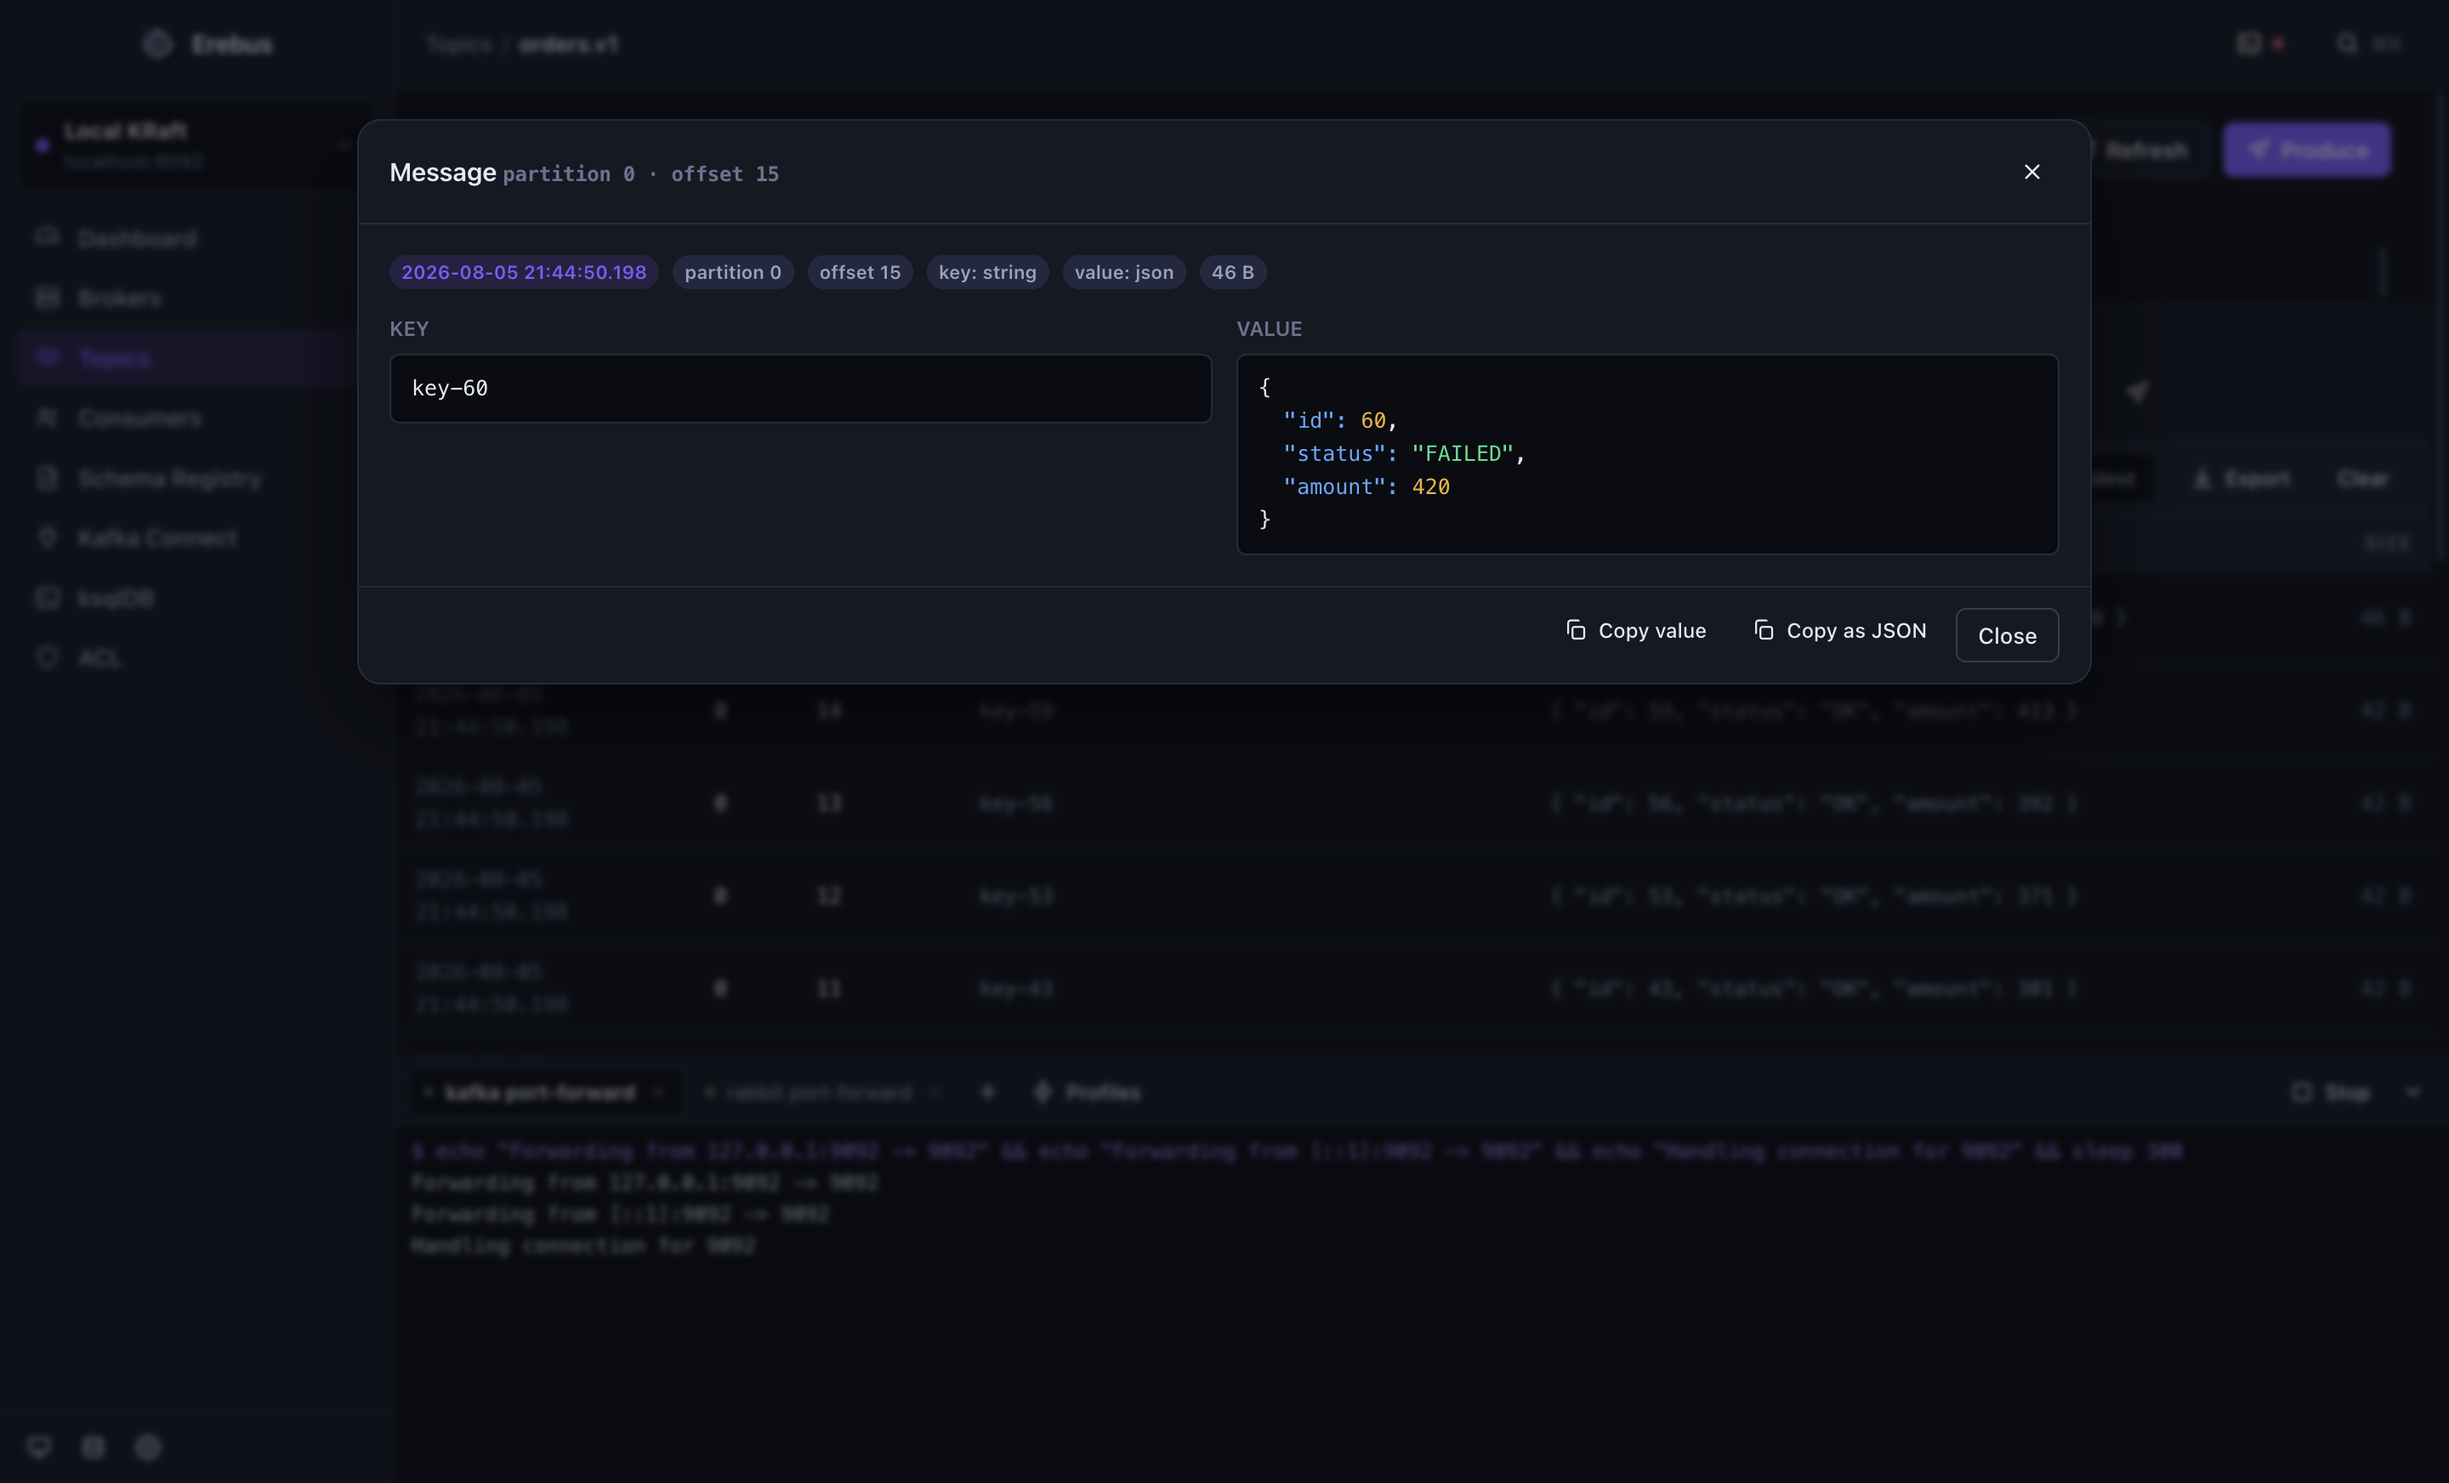
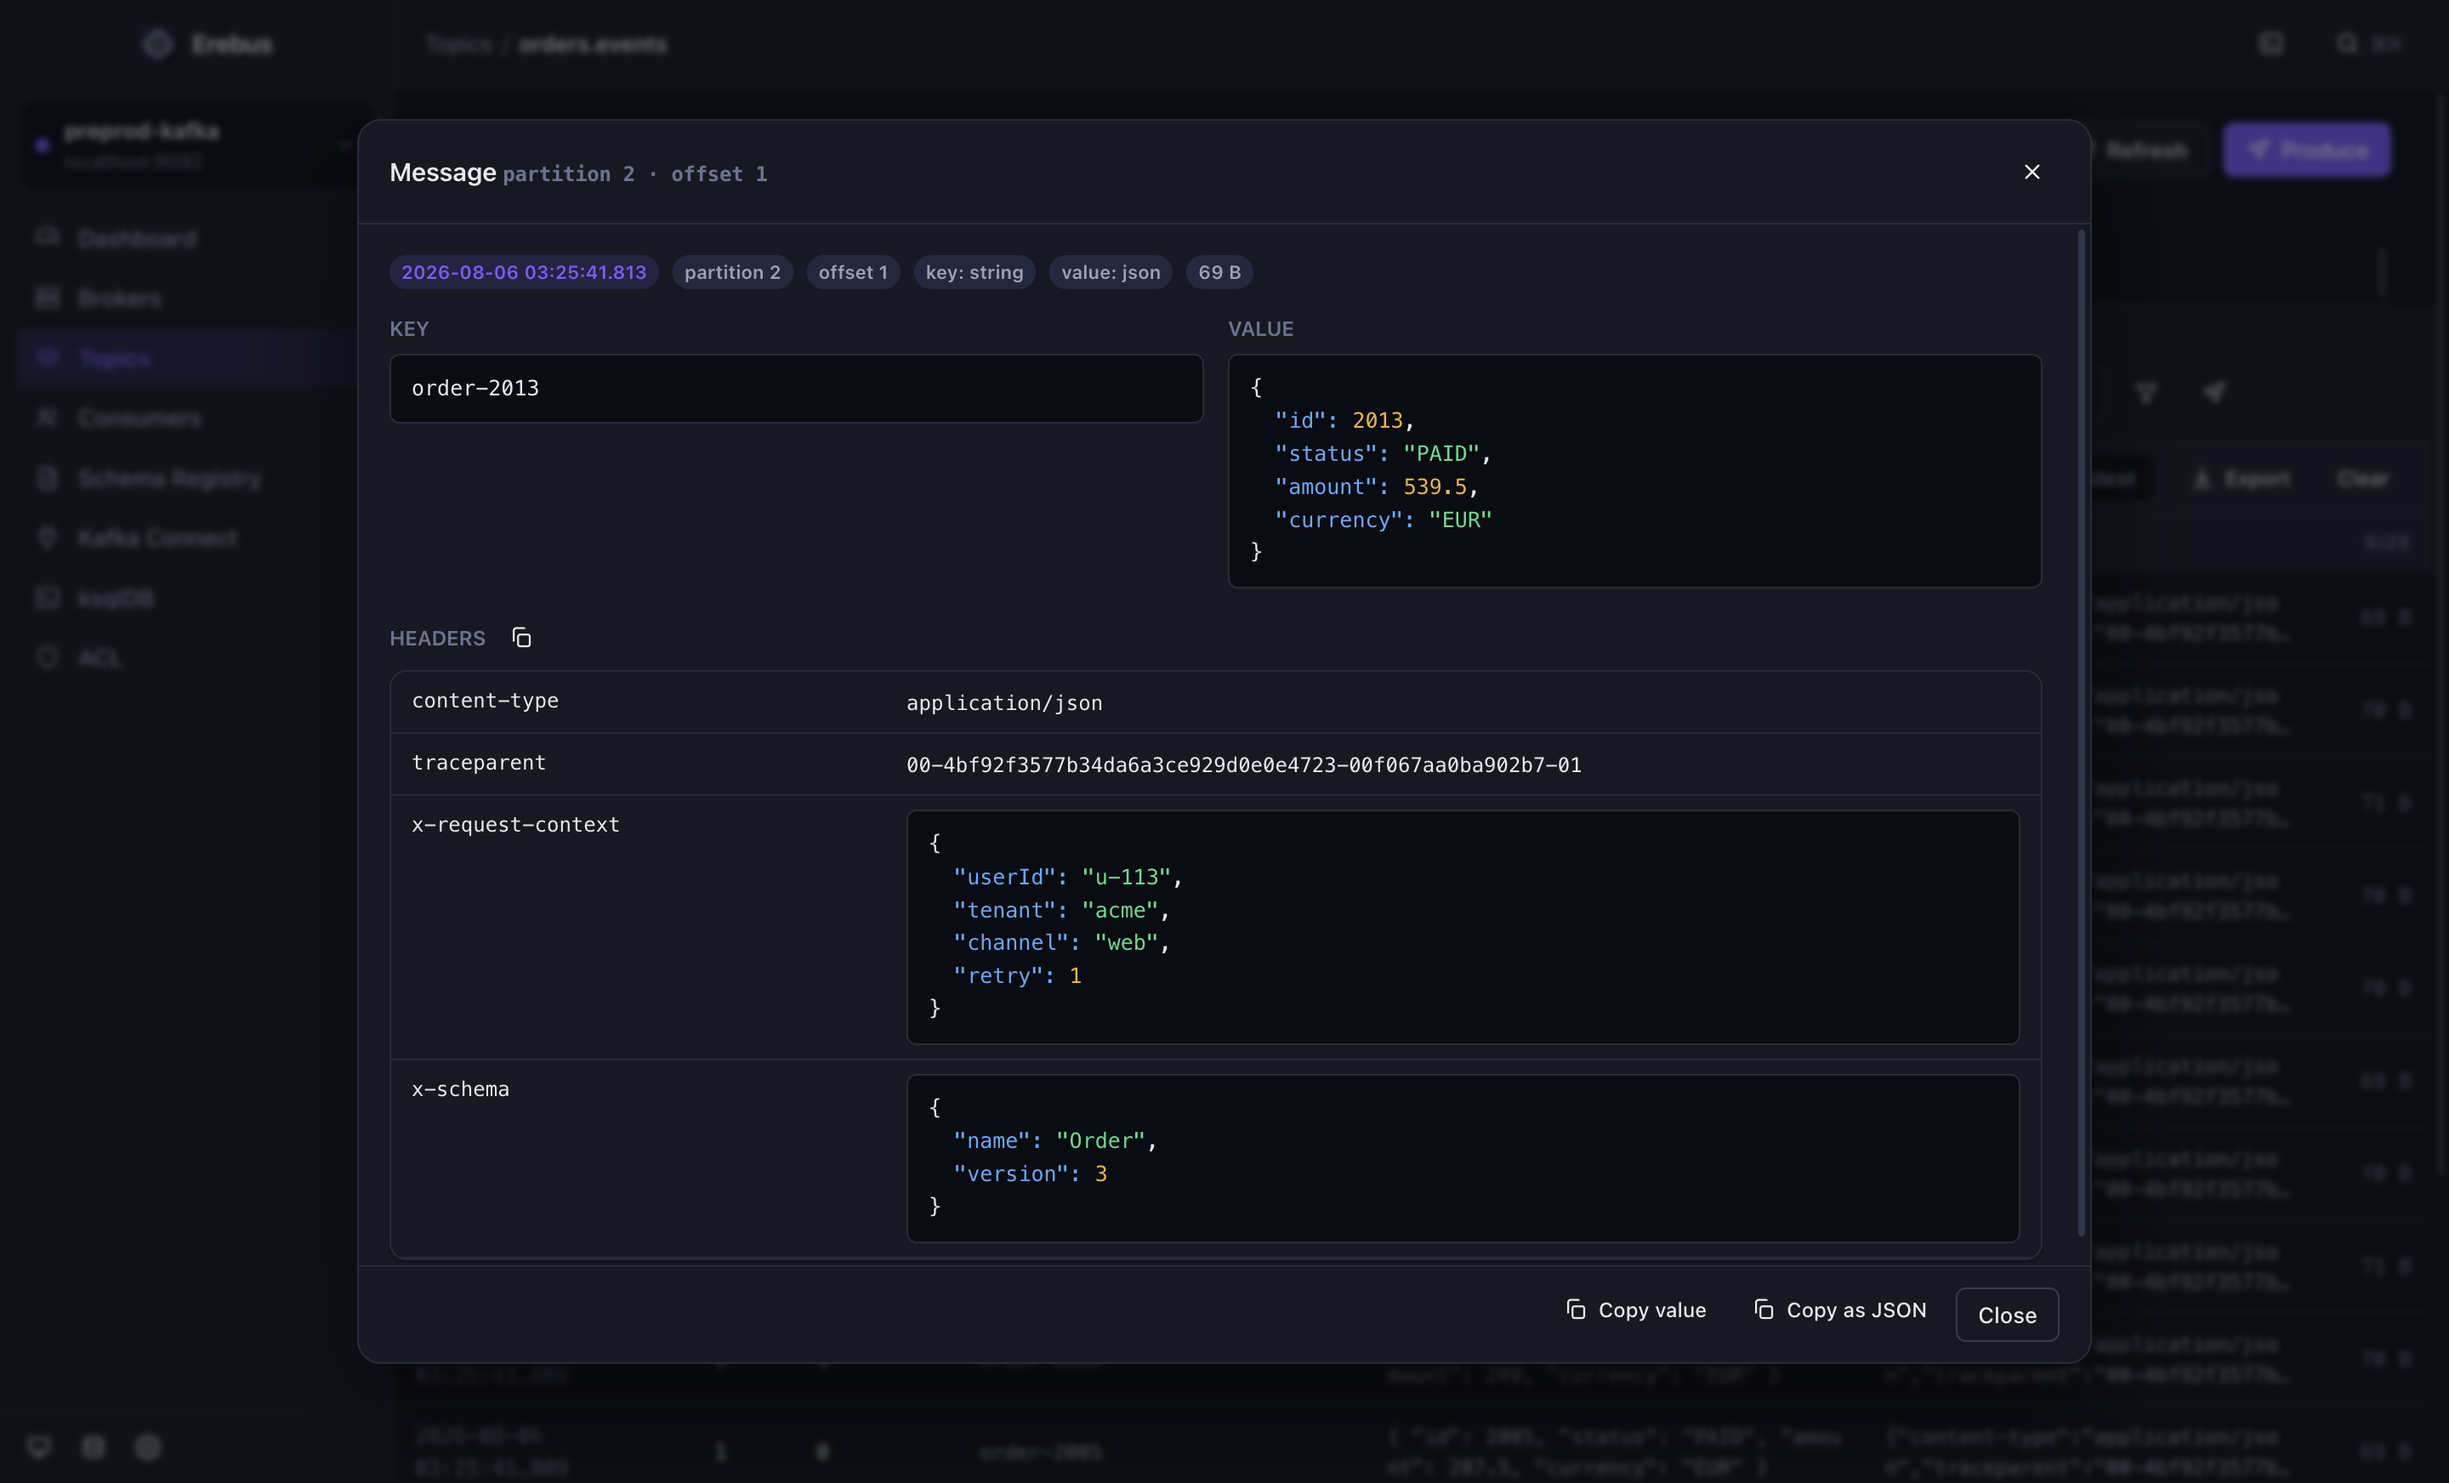
Show message headers, and show them as what they are
Headers only appeared in the message dialog, as flat text — which is the
wrong shape for the ones people actually attach: `x-request-context`,
`x-schema`, tracing envelopes, all of them JSON documents.

They now have a column in the message list (compact JSON, full value on
hover) and a proper panel in the dialog, where JSON values are
pretty-printed and highlighted and plain ones stay plain. The
JavaScript filter receives them parsed too, so a predicate can reach
into `headers['x-request-context'].tenant`.

Decoding got stricter on the way: repeated header keys are preserved
rather than collapsed, and values that are not text fall back to base64
instead of mangled UTF-8.

diff --git a/src/pages/MessagesView.tsx b/src/pages/MessagesView.tsx
@@ -14,7 +14,7 @@ import {
   Select,
 } from '@/components/ui';
 import { api, bridge } from '@/lib/api';
-import { cx, formatBytes, formatNumber, formatTimestamp, truncate } from '@/lib/format';
+import { cx, formatBytes, formatNumber, formatTimestamp, headersPreview, parseMaybeJson, truncate } from '@/lib/format';
 import { useAppState } from '@/app/AppState';
 import { useToast } from '@/lib/toast';
 import { ProduceModal } from './ProduceModal';
@@ -104,20 +104,34 @@ function MessageDetail({ message, onClose }: { message: KafkaMessage; onClose: (
 
       {message.headers.length > 0 && (
         <>
-          <h3 style={{ fontSize: 12, margin: '16px 0 6px' }} className="subtle">
-            HEADERS
-          </h3>
+          <div style={{ display: 'flex', alignItems: 'center', gap: 8, margin: '16px 0 6px' }}>
+            <h3 style={{ fontSize: 12 }} className="subtle">
+              HEADERS
+            </h3>
+            <CopyButton text={headersPreview(message.headers)} />
+          </div>
           <div className="table-wrap card">
             <table className="data">
               <tbody>
-                {message.headers.map((h, i) => (
-                  <tr key={i}>
-                    <td className="mono" style={{ width: '32%' }}>
-                      {h.key}
-                    </td>
-                    <td className="mono">{h.value}</td>
-                  </tr>
-                ))}
+                {message.headers.map((h, i) => {
+                  const parsed = parseMaybeJson(h.value);
+                  return (
+                    <tr key={i}>
+                      <td className="mono" style={{ width: '30%', verticalAlign: 'top' }}>
+                        {h.key}
+                      </td>
+                      <td>
+                        {parsed !== null ? (
+                          <CodeBlock language="json">{JSON.stringify(parsed, null, 2)}</CodeBlock>
+                        ) : (
+                          <span className="mono" style={{ wordBreak: 'break-word' }}>
+                            {h.value || <span className="subtle">empty</span>}
+                          </span>
+                        )}
+                      </td>
+                    </tr>
+                  );
+                })}
               </tbody>
             </table>
           </div>
@@ -385,7 +399,7 @@ export function MessagesView({ cluster, topic, partitionCount }: { cluster: Clus
         <div style={{ padding: '10px 16px', borderBottom: '1px solid var(--border)', background: 'var(--surface-2)' }}>
           <Field
             label="JavaScript filter"
-            hint="Runs per message in a sandbox. Available: key, value (parsed when JSON), headers, message."
+            hint="Runs per message in a sandbox. Available: key, value and headers (each parsed when it is JSON), and message."
           >
             <Input
               className="mono"
@@ -460,8 +474,9 @@ export function MessagesView({ cluster, topic, partitionCount }: { cluster: Clus
                 <th style={{ width: 176 }}>Timestamp</th>
                 <th style={{ width: 60 }}>Part.</th>
                 <th style={{ width: 96 }}>Offset</th>
-                <th style={{ width: '28%' }}>Key</th>
+                <th style={{ width: '20%' }}>Key</th>
                 <th>Value</th>
+                <th style={{ width: '22%' }}>Headers</th>
                 <th style={{ width: 70 }} className="right">
                   Size
                 </th>
@@ -482,6 +497,15 @@ export function MessagesView({ cluster, topic, partitionCount }: { cluster: Clus
                     <div className="msg-preview">
                       {message.value.text === null ? <span className="subtle">null</span> : truncate(message.value.text, 400)}
                     </div>
+                  </td>
+                  <td>
+                    {message.headers.length === 0 ? (
+                      <span className="subtle">—</span>
+                    ) : (
+                      <div className="msg-preview" title={headersPreview(message.headers)}>
+                        {truncate(headersPreview(message.headers), 220)}
+                      </div>
+                    )}
                   </td>
                   <td className="right mono subtle">{formatBytes(message.key.size + message.value.size)}</td>
                 </tr>

diff --git a/electron/kafka/messages.ts b/electron/kafka/messages.ts
@@ -40,7 +40,6 @@ function buildPredicate(expression?: string) {
     message: KafkaMessage,
   ) => unknown;
   return (message: KafkaMessage): boolean => {
-    const headers = Object.fromEntries(message.headers.map((h) => [h.key, h.value]));
     const parse = (text: string | null) => {
       if (text === null) return null;
       try {
@@ -49,12 +48,36 @@ function buildPredicate(expression?: string) {
         return text;
       }
     };
+    // Header values are often JSON documents; hand them over parsed.
+    const headers = Object.fromEntries(message.headers.map((h) => [h.key, parse(h.value)]));
     try {
       return Boolean(fn(parse(message.key.text), parse(message.value.text), headers, message));
     } catch {
       return false;
     }
   };
+}
+
+/** Kafka headers are bytes and may repeat; binary ones fall back to base64. */
+function decodeHeaders(raw: unknown): { key: string; value: string }[] {
+  const out: { key: string; value: string }[] = [];
+  for (const [key, value] of Object.entries((raw ?? {}) as Record<string, unknown>)) {
+    for (const single of Array.isArray(value) ? value : [value]) {
+      if (single === null || single === undefined) {
+        out.push({ key, value: '' });
+        continue;
+      }
+      if (!Buffer.isBuffer(single)) {
+        out.push({ key, value: String(single) });
+        continue;
+      }
+      const text = single.toString('utf8');
+      // eslint-disable-next-line no-control-regex
+      const binary = /[\u0000-\u0008\u000e-\u001f]/.test(text);
+      out.push({ key, value: binary ? single.toString('base64') : text });
+    }
+  }
+  return out;
 }
 
 function matchesSearch(message: KafkaMessage, needle: string): boolean {
@@ -324,10 +347,7 @@ export async function startConsume(query: ConsumeQuery, emit: Emit): Promise<voi
           timestamp: message.timestamp,
           key,
           value,
-          headers: Object.entries(message.headers ?? {}).map(([k, v]) => ({
-            key: k,
-            value: v === null || v === undefined ? '' : Buffer.isBuffer(v) ? v.toString('utf8') : String(v),
-          })),
+          headers: decodeHeaders(message.headers),
         };
 
         if (needle && !matchesSearch(decoded, needle)) continue;

diff --git a/src/lib/format.ts b/src/lib/format.ts
@@ -87,6 +87,32 @@ export function highlightJson(source: string): string {
   );
 }
 
+/** Header values are frequently JSON documents — parse them when they are. */
+export function parseMaybeJson(text: string): unknown {
+  const trimmed = text.trim();
+  if (!trimmed || !/^[[{]/.test(trimmed)) return null;
+  try {
+    return JSON.parse(trimmed);
+  } catch {
+    return null;
+  }
+}
+
+/** Compact one-line rendering of a message's headers, with JSON values inlined. */
+export function headersPreview(headers: { key: string; value: string }[]): string {
+  if (headers.length === 0) return '';
+  const shaped: Record<string, unknown> = {};
+  for (const header of headers) {
+    const parsed = parseMaybeJson(header.value);
+    const value = parsed ?? header.value;
+    const existing = shaped[header.key];
+    if (existing === undefined) shaped[header.key] = value;
+    else if (Array.isArray(existing)) existing.push(value);
+    else shaped[header.key] = [existing, value];
+  }
+  return JSON.stringify(shaped);
+}
+
 export function truncate(value: string, max = 200): string {
   return value.length > max ? `${value.slice(0, max)}…` : value;
 }

diff --git a/README.md b/README.md
@@ -160,6 +160,7 @@ cannot reach from your laptop.
 | **Cluster** | Dashboard with brokers, partitions, under-replicated and offline counts, message totals and the controller. Every broker's effective configuration, searchable. SASL `PLAIN` / `SCRAM-SHA-256` / `SCRAM-SHA-512`, TLS with custom CA, client certificate and key. |
 | **Topics** | Sortable list with partitions, replication factor, out-of-sync replicas, message count, cleanup policy and retention. Create with arbitrary config, edit config inline, add partitions, purge records, delete (typed confirmation). Partition table with leader, replicas, ISR and offsets. |
 | **Messages** | Seek by **newest / oldest / offset / timestamp**, all partitions or a subset. Deserializers: auto, `string`, `json`, **Avro through the Schema Registry**, JSON Schema, `base64`, `hex`, `int32`, `int64`. Substring search **plus a sandboxed JavaScript filter**. **Live tail.** Export the result set as JSON. |
+| **Headers** | A column of their own in the list, and a panel in the message view. Values that are JSON — `x-request-context`, `x-schema`, whatever your producers attach — are pretty-printed and highlighted; binary ones fall back to base64, repeated keys are kept. The JavaScript filter receives them parsed, so `headers['x-request-context'].tenant === 'acme'` works. |
 | **Produce** | Key and value serializers (including Avro against a registered subject), headers, target partition, compression, null keys. |
 | **Consumer groups** | State, members, assignments, per-partition committed offset, end offset and lag. Reset to earliest, latest, an offset or a timestamp. Delete a group. |
 | **Schema Registry** | Subjects, versions, highlighted schema. Register AVRO / JSON / PROTOBUF, check compatibility first, change the compatibility level, delete a version or a subject. |
